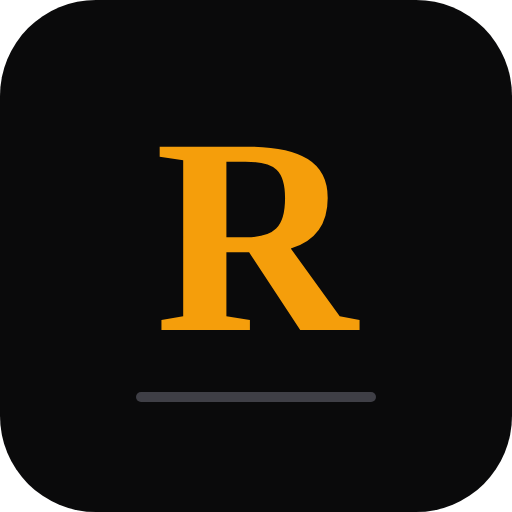
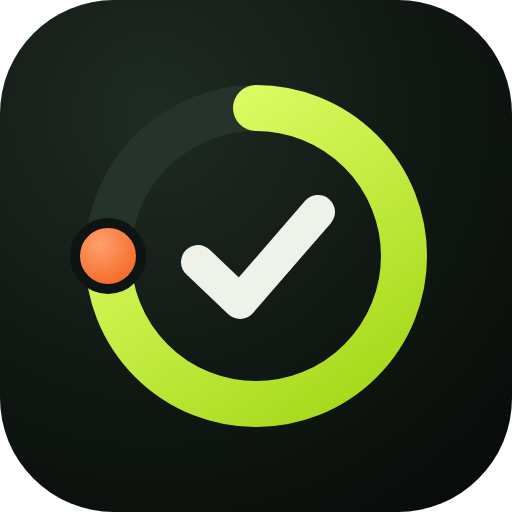
Ícone novo: anel do dia com o visto
Anel verde-lima a três quartos, ponto laranja no «agora» e um visto ao
centro, sobre o verde-escuro da app. SVG e PNG para o browser, Android
(com versão maskable) e iPhone.

Claude-Session: https://claude.ai/code/session_016fwF85X2XBLqokteYTzQt1

diff --git a/docs/decisions.md b/docs/decisions.md
@@ -178,3 +178,4 @@
 129. **Os meus treinos:** o João define os seus treinos (4 ou 5): nome, tipo (ginásio, bicicleta ou um dos 12 desportos), duração habitual, watts na bicicleta e, no ginásio, os exercícios com séries, repetições (mín.–máx.) e carga opcional. Ficam em `favorites` (kind 'workout', `workout.exercises[].load_kg` novo), criados e editados na folha «meu-treino» (Treino › Os meus treinos e Favoritos › Treinos); apagar arquiva, com Anular. Um toque regista (ginásio abre a sessão com as séries do treino; os outros pedem só o joelho). A sessão guardada leva o nome do treino (`workouts.name`).
 130. **Que treino foi (relógio):** um treino do relógio fica sem nome até o João dizer qual dos seus treinos foi: o Treino mostra «qual dos teus treinos foi?» para os das últimas 2 semanas, e a folha do treino tem os seus treinos como botões (primeiro os do mesmo tipo e desporto). `/api/workout/update` aceita `favorite_id` (e `name`), valida que é um treino dele e dá-lhe o nome; num treino de ginásio, «Registar as séries» abre o Ginásio com as séries do treino (sessão do relógio sem séries → começa com o modelo), sem mexer nos minutos do relógio.
 131. **Mais exercícios e desportos:** o seletor de exercícios pesquisa todo o catálogo (os que forçam o joelho aparecem no fim, com «cuidado joelho») e cria um exercício novo com o nome escrito, que fica no catálogo. Desportos: corrida, caminhada, elíptica, natação, remo, futebol, padel, ténis, aula, yoga, pilates e outro, com METs líquidos moderados do Compêndio (corrida 7,5; futebol e ténis 6; natação, remo, padel e aula 5; elíptica 4; outro 3; caminhada 2,5; pilates 2; yoga 1,5), no «Já fiz», nos teus treinos, nos prints e no intervals.icu.
+132. **Ícone novo:** um anel do dia em verde-lima (três quartos cheios), com um ponto laranja no «agora» e um visto claro ao centro, sobre o verde-escuro da app com um brilho no canto. As mesmas cores da interface (lima = gastar, laranja = comer). `icon.svg` (cantos redondos), `icon-maskable.svg` (marca a 80 %, dentro da zona segura do Android) e PNG de 192, 512, 512 maskable e 180 para o iPhone, gerados a partir do SVG com o Chromium.
